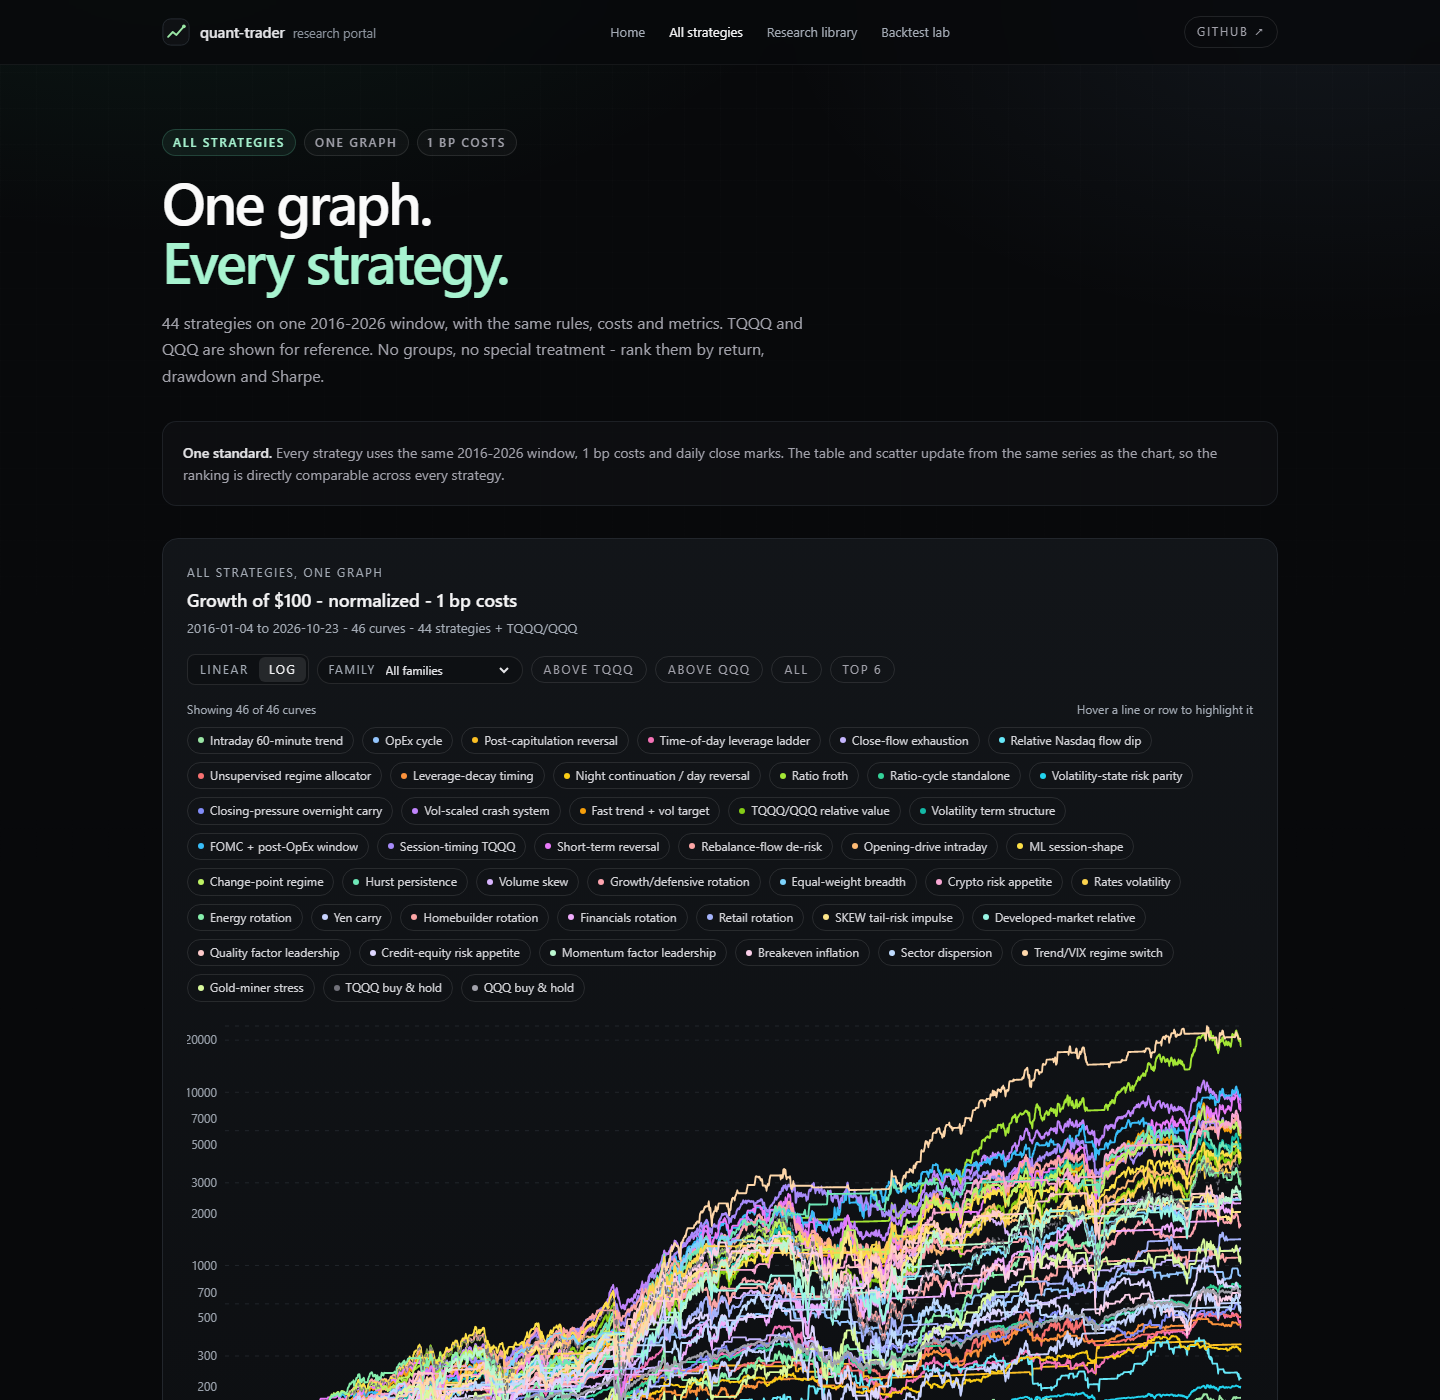
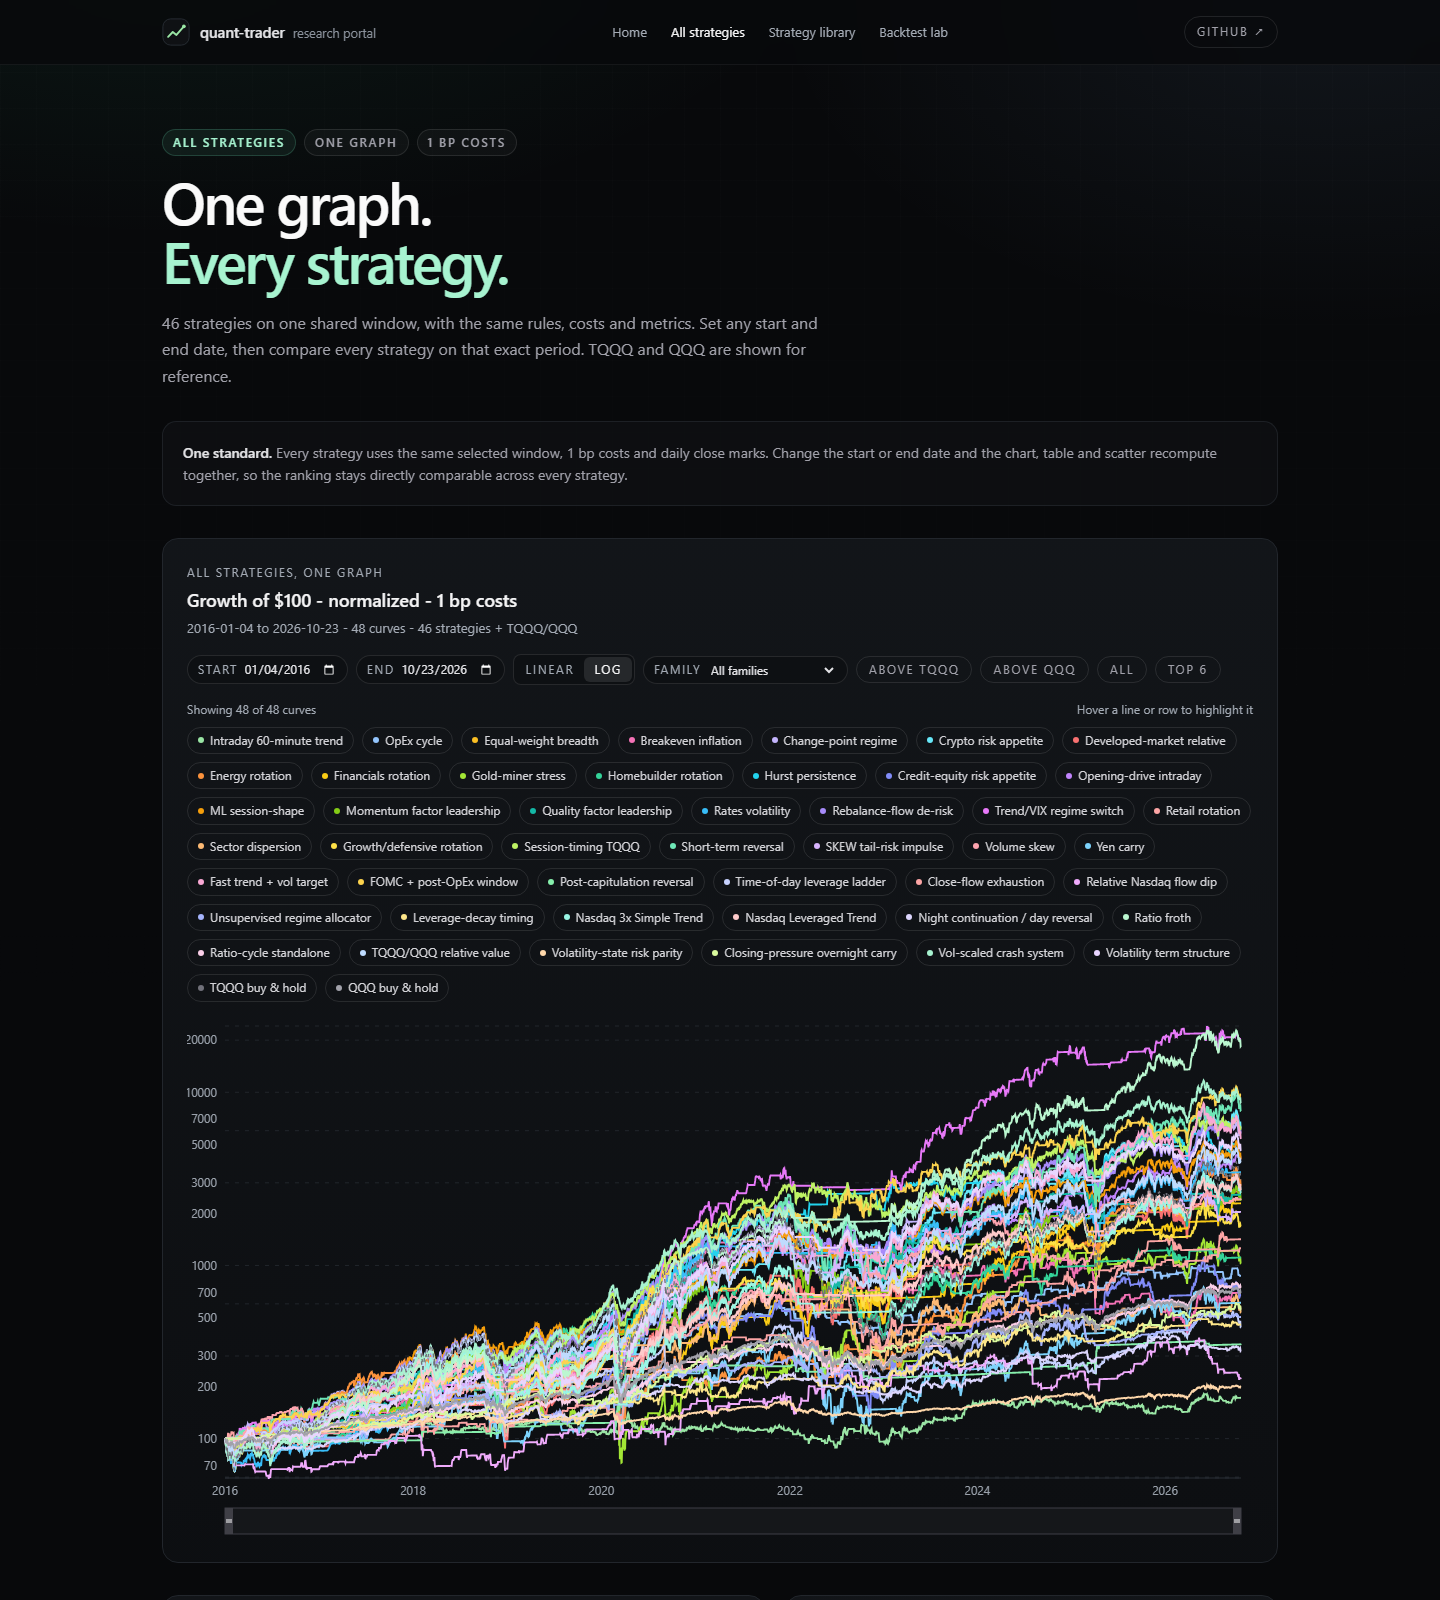
Add manual start and end dates to all-strategies view
The compare page now filters every curve to a chosen date range, renormalizes each to 100 at the start, and recomputes CAGR, drawdown and Sharpe for the chart, table and scatter. Defaults remain 2016-01-04 to 2026-10-23.

diff --git a/web/components/all-strategies-chart.tsx b/web/components/all-strategies-chart.tsx
@@ -432,9 +432,11 @@ export function AllStrategiesChart() {
   const [above, setAbove] = useState<"all" | "tqqq" | "qqq">("all");
   const [family, setFamily] = useState<string>("all");
   const [hovered, setHovered] = useState<string | null>(null);
+  const [rangeStart, setRangeStart] = useState("");
+  const [rangeEnd, setRangeEnd] = useState("");
 
   useEffect(() => {
-    fetch("/data/compare/all.min.json?v=2026-11-28-44c")
+    fetch("/data/compare/all.min.json?v=2026-11-28-47")
       .then((response) => {
         if (!response.ok) throw new Error(`HTTP ${response.status}`);
         return response.json();
@@ -443,22 +445,74 @@ export function AllStrategiesChart() {
       .catch((reason) => setError(String(reason)));
   }, []);
 
+  useEffect(() => {
+    if (data) {
+      setRangeStart(data.start);
+      setRangeEnd(data.end);
+    }
+  }, [data]);
+
+  const view = useMemo(() => {
+    if (!data) return null;
+    const start = rangeStart || data.start;
+    const end = rangeEnd || data.end;
+    const idx = data.dates
+      .map((date, index) => ({ date, index }))
+      .filter((item) => item.date >= start && item.date <= end);
+    if (idx.length < 2) return null;
+    const dates = idx.map((item) => item.date);
+    const series = data.series.map((curve) => {
+      const raw = idx.map((item) => curve.values[item.index]);
+      const base = raw.find((value): value is number => value != null) ?? 1;
+      return {
+        ...curve,
+        values: raw.map((value) => (value == null ? null : (value / base) * 100)),
+      };
+    });
+    const days = (Date.parse(dates[dates.length - 1]) - Date.parse(dates[0])) / 86_400_000;
+    const years = days / 365.25;
+    const metrics = data.metrics.map((metric) => {
+      const curve = series.find((item) => item.id === metric.id);
+      if (!curve) return metric;
+      const values = curve.values.filter((value): value is number => value != null);
+      if (values.length < 2) return { ...metric, cagr: 0, dd: 0, sharpe: 0 };
+      const first = values[0];
+      const last = values[values.length - 1];
+      const rets = values.slice(1).map((value, index) => value / values[index] - 1);
+      const mean = rets.reduce((sum, value) => sum + value, 0) / rets.length;
+      const sd = Math.sqrt(rets.reduce((sum, value) => sum + (value - mean) ** 2, 0) / rets.length);
+      let peak = -Infinity;
+      let dd = 0;
+      for (const value of values) {
+        peak = Math.max(peak, value);
+        dd = Math.min(dd, value / peak - 1);
+      }
+      return {
+        ...metric,
+        cagr: years > 0 ? (last / first) ** (1 / years) - 1 : 0,
+        dd: Math.abs(dd),
+        sharpe: sd > 0 ? (mean / sd) * Math.sqrt(252) : 0,
+      };
+    });
+    return { dates, series, metrics, start, end };
+  }, [data, rangeStart, rangeEnd]);
+
   const rows = useMemo(() => {
-    if (!data) return [];
-    return data.dates.map((date, index) => {
+    if (!view) return [];
+    return view.dates.map((date, index) => {
       const row: Record<string, string | number | null> = { date };
-      data.series.forEach((curve) => {
+      view.series.forEach((curve) => {
         row[curve.id] = curve.values[index];
       });
       return row;
     });
-  }, [data]);
+  }, [view]);
 
   const ticks = useMemo(() => {
-    if (!data) return [];
+    if (!view) return [];
     const out: string[] = [];
     let lastYear = "";
-    data.dates.forEach((date) => {
+    view.dates.forEach((date) => {
       const year = date.slice(0, 4);
       if (year !== lastYear && (out.length === 0 || Number(year) % 2 === 0)) {
         out.push(date);
@@ -466,52 +520,52 @@ export function AllStrategiesChart() {
       }
     });
     return out;
-  }, [data]);
+  }, [view]);
 
   const metricById = useMemo(() => {
     const map = new Map<string, Metric>();
-    (data?.metrics ?? []).forEach((metric) => map.set(metric.id, metric));
+    (view?.metrics ?? []).forEach((metric) => map.set(metric.id, metric));
     return map;
-  }, [data]);
+  }, [view]);
 
   const colorById = useMemo(() => {
     const map: Record<string, string> = {};
-    (data?.series ?? []).forEach((curve) => {
+    (view?.series ?? []).forEach((curve) => {
       map[curve.id] = curve.color;
     });
     return map;
-  }, [data]);
+  }, [view]);
 
   const families = useMemo(() => {
     const set = new Set<string>();
-    (data?.metrics ?? []).forEach((metric) => {
+    (view?.metrics ?? []).forEach((metric) => {
       if (!metric.benchmark) set.add(metric.family ?? "other");
     });
     return [...set].sort();
-  }, [data]);
+  }, [view]);
 
   const inFamily = (id: string) =>
     family === "all" || (metricById.get(id)?.family ?? "other") === family;
 
   const legendSeries = useMemo(() => {
-    if (!data) return [];
-    return data.series.filter(
+    if (!view) return [];
+    return view.series.filter(
       (curve) => curve.id === "tqqq" || curve.id === "qqq" || inFamily(curve.id),
     );
-  }, [data, family, metricById]);
+  }, [view, family, metricById]);
 
   const visible = useMemo(
     () =>
-      data?.series.filter(
+      view?.series.filter(
         (curve) =>
           curve.id === "tqqq" || curve.id === "qqq" || (inFamily(curve.id) && !hidden.has(curve.id)),
       ) ?? [],
-    [data, family, hidden, metricById],
+    [view, family, hidden, metricById],
   );
   const visibleIds = useMemo(() => new Set(visible.map((curve) => curve.id)), [visible]);
   const visibleMetrics = useMemo(
-    () => (data?.metrics ?? []).filter((metric) => visibleIds.has(metric.id)),
-    [data, visibleIds],
+    () => (view?.metrics ?? []).filter((metric) => visibleIds.has(metric.id)),
+    [view, visibleIds],
   );
 
   const toggle = (id: string) => {
@@ -531,11 +585,11 @@ export function AllStrategiesChart() {
   };
 
   const showTop = () => {
-    if (!data) return;
+    if (!view) return;
     setAbove("all");
     setHovered(null);
     const top = new Set(
-      data.metrics
+      view.metrics
         .filter((metric) => !metric.benchmark && (family === "all" || (metric.family ?? "other") === family))
         .sort((a, b) => b.cagr - a.cagr)
         .slice(0, 6)
@@ -543,27 +597,27 @@ export function AllStrategiesChart() {
     );
     top.add("tqqq");
     top.add("qqq");
-    setHidden(new Set(data.series.filter((curve) => !top.has(curve.id)).map((curve) => curve.id)));
+    setHidden(new Set(view.series.filter((curve) => !top.has(curve.id)).map((curve) => curve.id)));
   };
 
   const applyAbove = (key: "all" | "tqqq" | "qqq", nextFamily: string) => {
     setAbove(key);
     setHovered(null);
-    if (!data || key === "all") {
+    if (!view || key === "all") {
       setHidden(new Set());
       return;
     }
-    const bench = data.metrics.find((metric) => metric.id === key && metric.benchmark);
+    const bench = view.metrics.find((metric) => metric.id === key && metric.benchmark);
     if (!bench) return;
     const keep = new Set<string>(["tqqq", "qqq"]);
-    const matches = data.metrics.filter(
+    const matches = view.metrics.filter(
       (metric) =>
         !metric.benchmark &&
         metric.cagr > bench.cagr &&
         (nextFamily === "all" || (metric.family ?? "other") === nextFamily),
     );
     matches.forEach((metric) => keep.add(metric.id));
-    setHidden(new Set(data.series.filter((curve) => !keep.has(curve.id)).map((curve) => curve.id)));
+    setHidden(new Set(view.series.filter((curve) => !keep.has(curve.id)).map((curve) => curve.id)));
   };
 
   const filterAbove = (key: "all" | "tqqq" | "qqq") => applyAbove(key, family);
@@ -594,7 +648,11 @@ export function AllStrategiesChart() {
     return <div className="panel h-[420px] animate-pulse bg-white/[0.02]" />;
   }
 
-  const strategyCount = data.metrics.filter((metric) => !metric.benchmark).length;
+  if (!view) {
+    return <div className="panel p-6 text-[12px] text-rose-200">Start date must be before end date.</div>;
+  }
+
+  const strategyCount = view.metrics.filter((metric) => !metric.benchmark).length;
 
   return (
     <div className="space-y-8">
@@ -606,10 +664,34 @@ export function AllStrategiesChart() {
               Growth of $100  -  normalized  -  1 bp costs
             </h2>
             <p className="mt-1 text-[11px] text-zinc-500">
-              {data.start} to {data.end} - {data.series.length} curves - {strategyCount} strategies + TQQQ/QQQ
+              {view.start} to {view.end} - {view.series.length} curves - {strategyCount} strategies + TQQQ/QQQ
             </p>
           </div>
           <div className="flex flex-wrap items-center gap-2">
+            <label className="flex items-center gap-1.5 rounded-full border border-white/10 bg-black/20 px-2.5 py-1 text-[10px] text-zinc-500">
+              <span className="uppercase tracking-[0.12em]">Start</span>
+              <input
+                type="date"
+                min={data.start}
+                max={data.end}
+                value={rangeStart || data.start}
+                onChange={(event) => setRangeStart(event.target.value)}
+                className="bg-transparent text-[10px] text-zinc-200 outline-none"
+                aria-label="Compare start date"
+              />
+            </label>
+            <label className="flex items-center gap-1.5 rounded-full border border-white/10 bg-black/20 px-2.5 py-1 text-[10px] text-zinc-500">
+              <span className="uppercase tracking-[0.12em]">End</span>
+              <input
+                type="date"
+                min={data.start}
+                max={data.end}
+                value={rangeEnd || data.end}
+                onChange={(event) => setRangeEnd(event.target.value)}
+                className="bg-transparent text-[10px] text-zinc-200 outline-none"
+                aria-label="Compare end date"
+              />
+            </label>
             <div className="flex rounded-lg border border-white/10 bg-black/20 p-0.5">
               {(["linear", "log"] as const).map((option) => (
                 <button
@@ -678,7 +760,7 @@ export function AllStrategiesChart() {
 
         <div className="mb-2 flex flex-wrap items-center justify-between gap-2 text-[10px] text-zinc-500">
           <span>
-            Showing {visible.length} of {data.series.length} curves
+            Showing {visible.length} of {view.series.length} curves
             {family !== "all" ? ` in ${family}` : ""}
           </span>
           <span>Hover a line or row to highlight it</span>

diff --git a/web/app/compare/page.tsx b/web/app/compare/page.tsx
@@ -7,7 +7,7 @@ import { researchStrategyCount } from "@/lib/research-count";
 export const metadata: Metadata = {
   title: "All strategies, one graph  -  quant-trader",
   description:
-    "Every completed research strategy on one normalized equity chart, with a risk/return map and full metrics.",
+    "Every strategy on one normalized equity chart, with a risk/return map and full metrics.",
 };
 
 export const dynamic = "force-dynamic";
@@ -32,9 +32,9 @@ export default function ComparePage() {
               <span className="text-emerald-200">Every strategy.</span>
             </h1>
             <p className="mt-5 max-w-2xl text-[14px] leading-relaxed text-zinc-400">
-              {researchCount} strategies on one 2016-2026 window, with the same rules, costs and metrics.
-              TQQQ and QQQ are shown for reference. No groups, no special treatment - rank them
-              by return, drawdown and Sharpe.
+              {researchCount} strategies on one shared window, with the same rules, costs and
+              metrics. Set any start and end date, then compare every strategy on that exact
+              period. TQQQ and QQQ are shown for reference.
             </p>
           </div>
         </section>
@@ -42,9 +42,9 @@ export default function ComparePage() {
         <section className="pt-8">
           <div className="panel-soft p-4 text-[12px] leading-relaxed text-zinc-400 sm:p-5">
             <span className="font-medium text-zinc-200">One standard.</span> Every strategy uses
-            the same 2016-2026 window, 1 bp costs and daily close marks. The table and scatter
-            update from the same series as the chart, so the ranking is directly comparable across
-            every strategy.
+            the same selected window, 1 bp costs and daily close marks. Change the start or end
+            date and the chart, table and scatter recompute together, so the ranking stays
+            directly comparable across every strategy.
           </div>
         </section>
 
